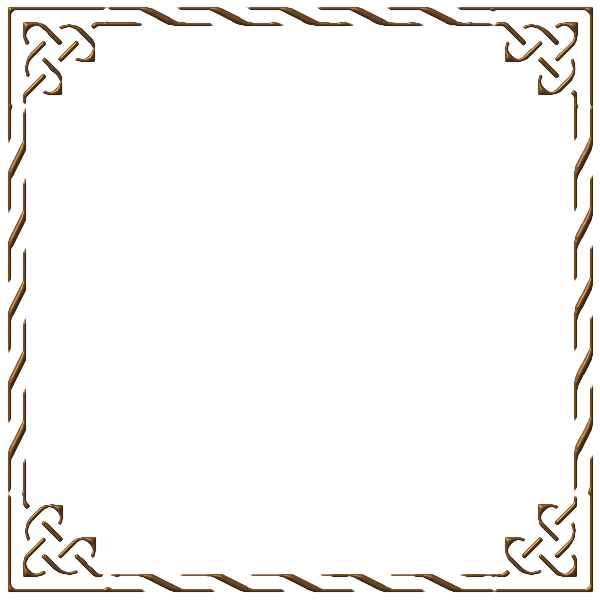
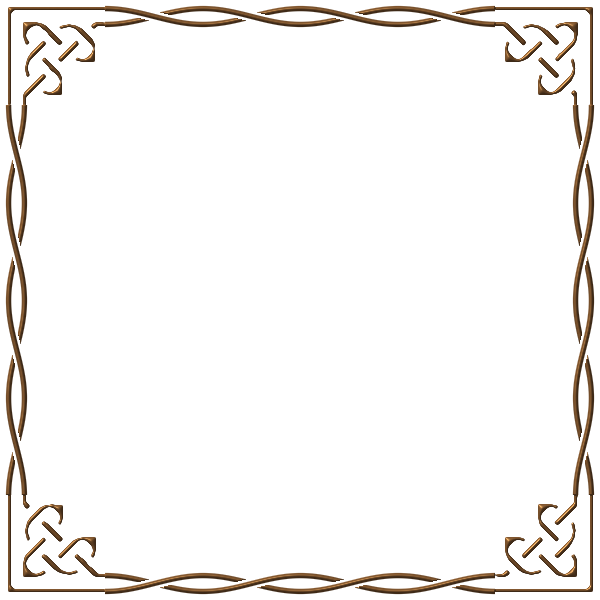
v7.83: cornice bottino con fili ultrasottili in bronzo brunito e 4 incroci distanziati per lato

diff --git a/index.html b/index.html
@@ -2423,8 +2423,8 @@ dialog.mk-dialog::backdrop {
   background:
     radial-gradient(ellipse at 50% 34%, rgba(56, 32, 16, 0.16) 0%, rgba(20, 12, 8, 0.10) 52%, transparent 80%),
     linear-gradient(170deg, #0e0b08 0%, #070605 55%, #0a0806 100%);
-  border: 10px solid transparent;
-  border-image: url("img/cornice_bronzo.png") 105 / 16px round;
+  border: 12px solid transparent;
+  border-image: url("img/cornice_bronzo.png") 105 / 22px stretch;
   border-radius: 2px;
   box-shadow:
     0 24px 64px rgba(0, 0, 0, 0.94),

diff --git a/js/data.js b/js/data.js
@@ -5,7 +5,7 @@
  ============================================================ */
 
 /* ── App info ── */
-export const APP_VERSION = "7.82";
+export const APP_VERSION = "7.83";
 export const APP_RELEASE = "28/11/2026";
 export const APP_DEV = "djiglio.ai";
 
